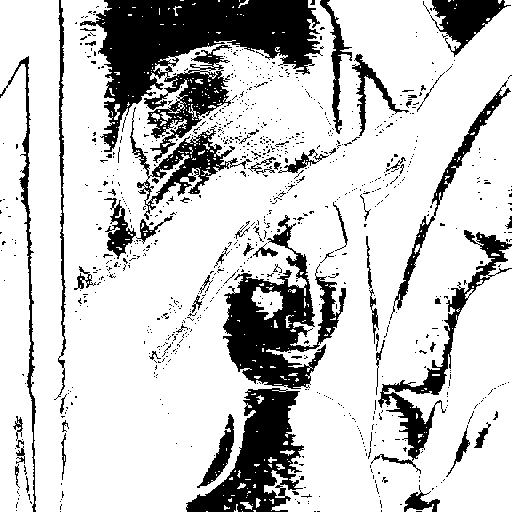
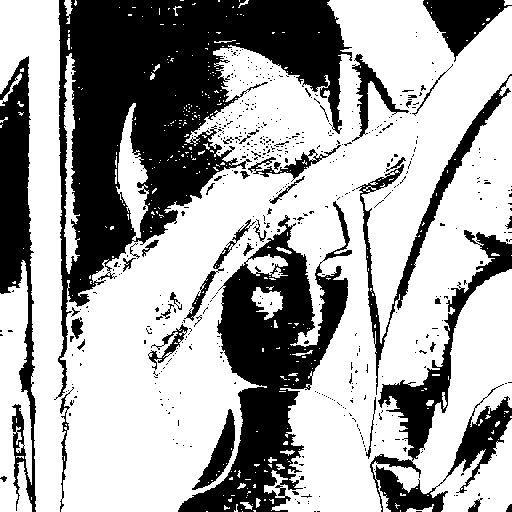
h

diff --git a/binarize/binarize.rb b/binarize/binarize.rb
@@ -40,7 +40,7 @@ end
 
 # Main part
 img = Imlib2::Image.load("srcimg/lena.jpg")
-minHue = 110.0
+minHue = 100.0
 maxHue = 130.0
 maxSat = 0.52
 minBright = 0.28
